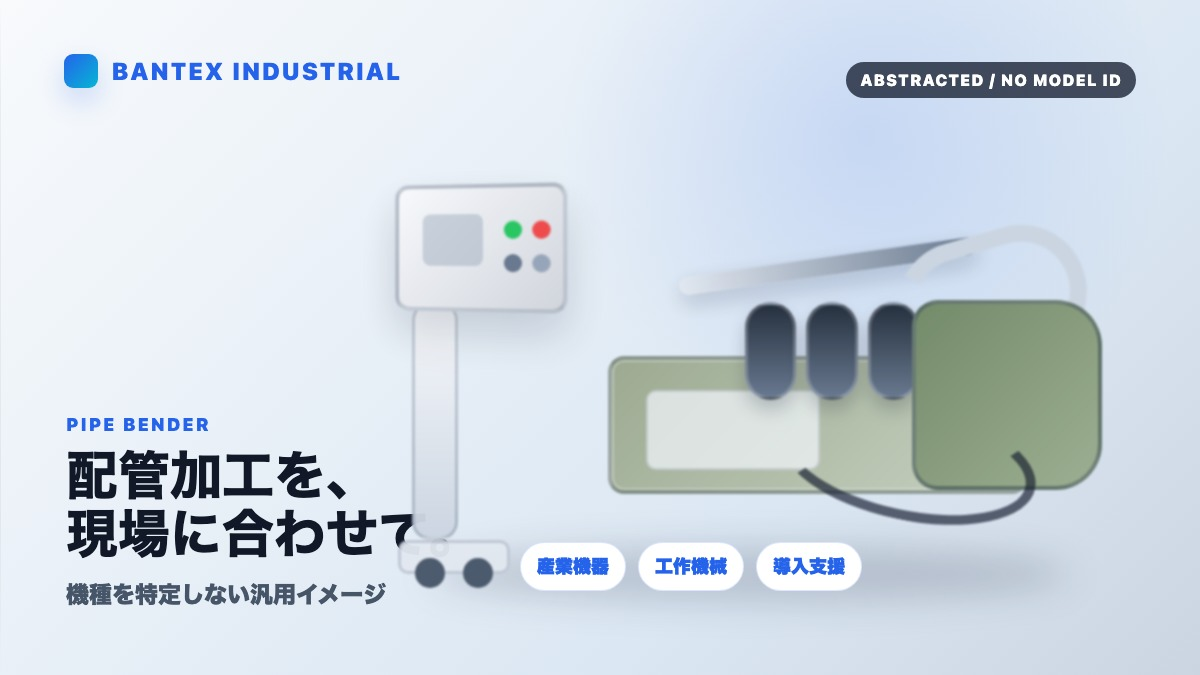
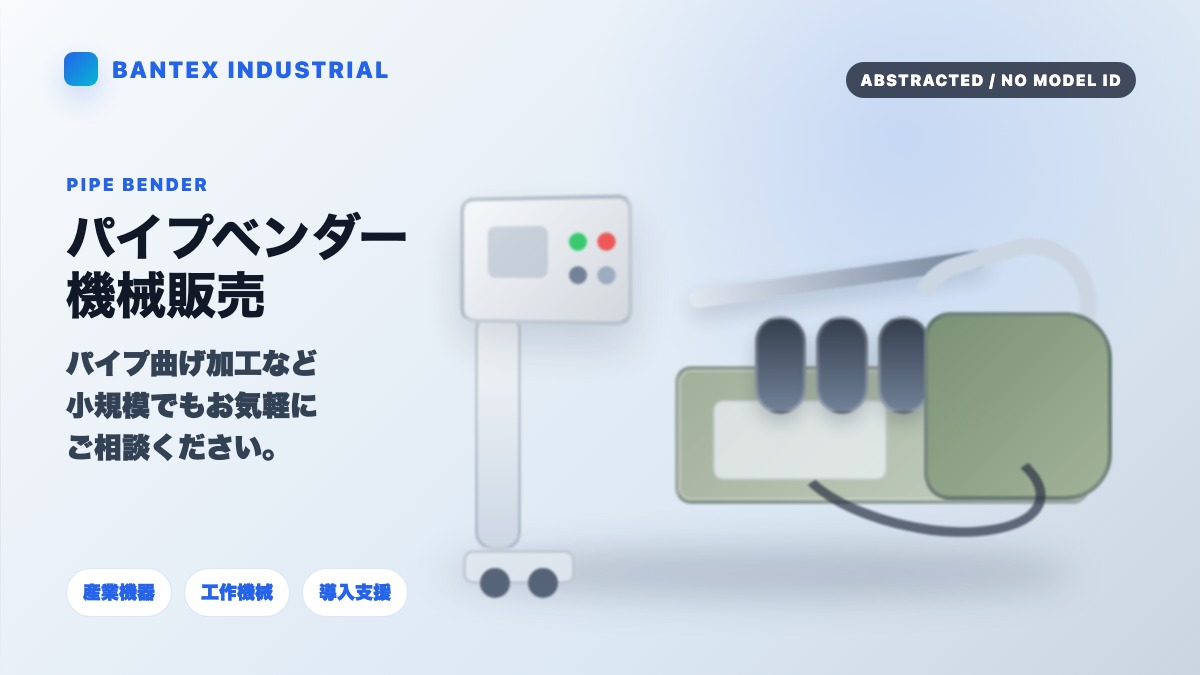
fix: revise industrial and signage card thumbnails

diff --git a/index.html b/index.html
@@ -572,7 +572,7 @@
             </div>
             <h3 class="card-title">パイプベンダー販売</h3>
             <div class="service-card-visual service-card-visual--industrial" aria-hidden="true">
-              <img src="assets/service-thumbs/pipe-bender.jpg?v=20260428-pipe1" alt="" width="1200" height="675">
+              <img src="assets/service-thumbs/pipe-bender.jpg?v=20260428-pipe2" alt="" width="1200" height="675">
             </div>
             <p class="card-catch">現場を支える、確かな機械。</p>
             <p class="card-desc">
@@ -627,7 +627,7 @@
             </div>
             <h3 class="card-title">デジタルサイネージ販売</h3>
             <div class="service-card-visual service-card-visual--signage" aria-hidden="true">
-              <img src="assets/service-thumbs/digital-signage.jpg?v=20260428-signage2" alt="" width="1200" height="675">
+              <img src="assets/service-thumbs/digital-signage.jpg?v=20260428-signage3" alt="" width="1200" height="675">
             </div>
             <p class="card-catch">空間を活かす、伝わる表示。</p>
             <p class="card-desc">
